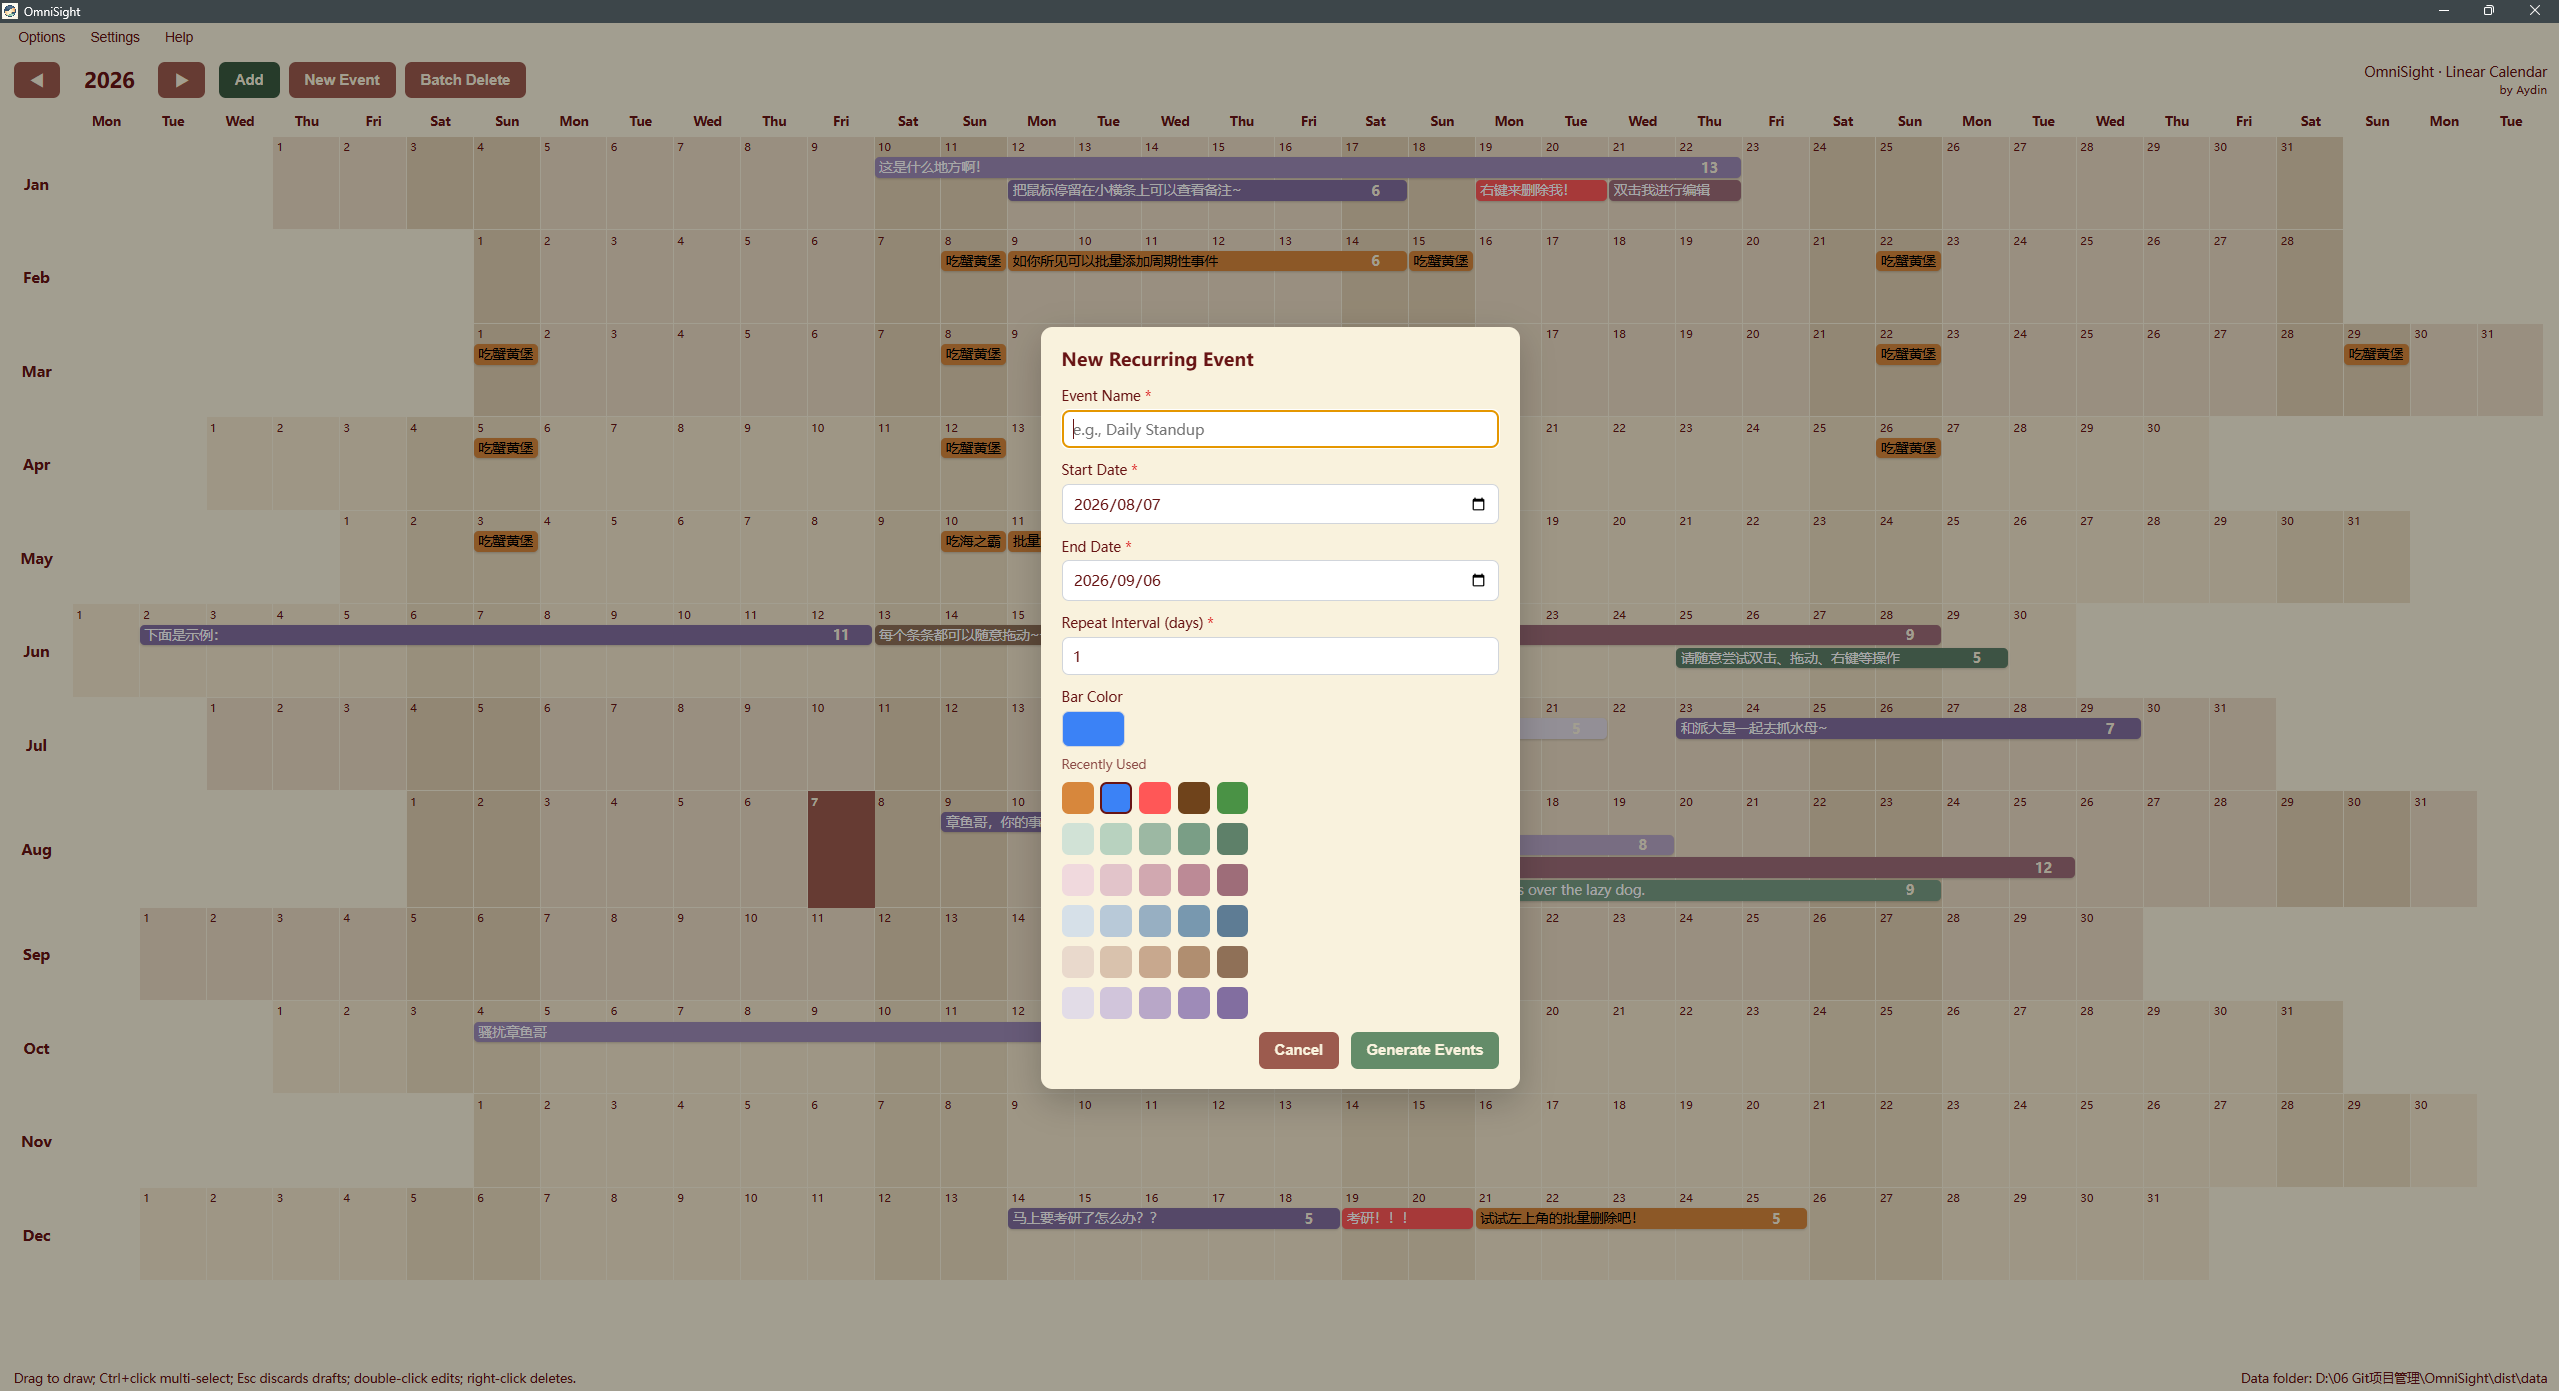
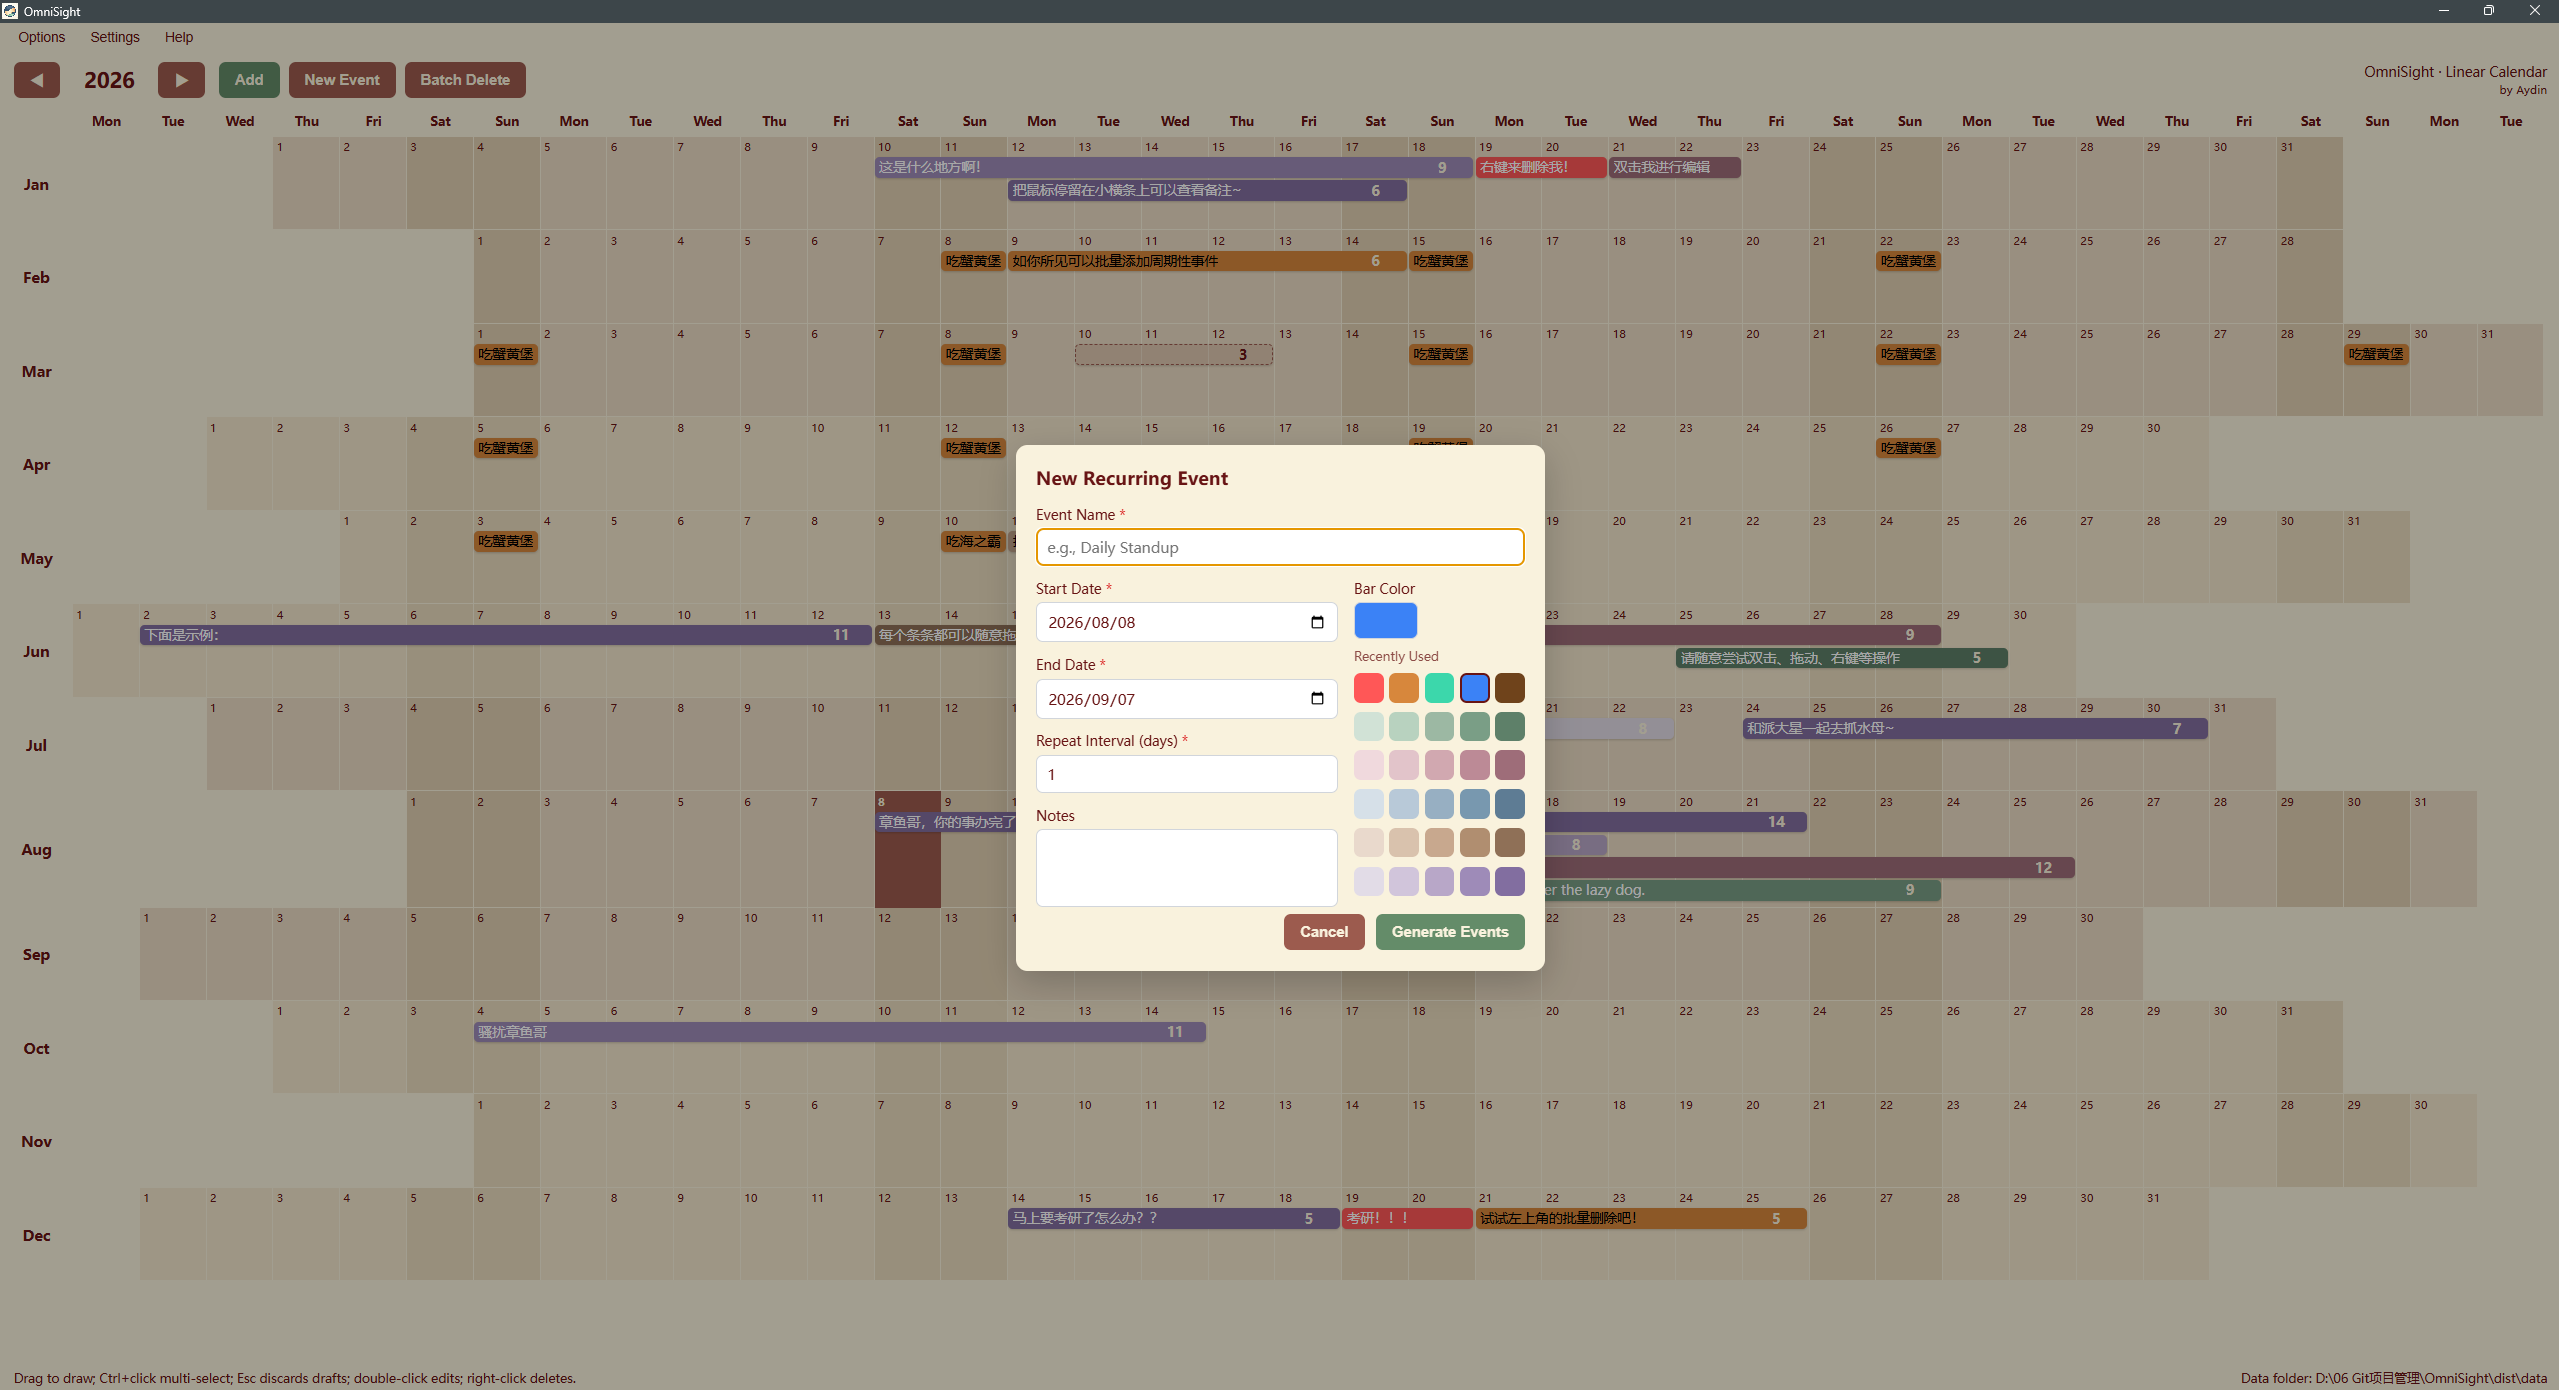
README 更新

diff --git a/README.md b/README.md
@@ -25,7 +25,7 @@
 
 ### 全年总览视图 / Year Overview
 
-![全年总览视图 - Year Overview](docs/screenshots/year-overview.png)
+![全年总览视图 - Year Overview](docs/screenshots/year-overview-en.png)
 
 **中文**：12 个月纵向排列、横向固定 37 列网格；事项以彩色横条覆盖对应日期区间，全年计划一目了然。
 
@@ -41,19 +41,17 @@
 
 **English**: A clean grid of a brand-new year — click any date cell to start planning.
 
-### 添加事项弹窗 / Add-Event Dialog
+### 添加与编辑事项弹窗 / Add-Event & Edit-Event Dialog
 
-![添加事项弹窗 - Add-Event Dialog](docs/screenshots/add-dialog-zh.png)
+![添加事项弹窗 - Add-Event Dialog](docs/screenshots/add-event-en.png)
 
-![添加事项弹窗 - Add-Event Dialog](docs/screenshots/add-dialog-en.png)
+![编辑事项弹窗 - Edit-Event Dialog](docs/screenshots/edit-event-en.png)
 
-**中文**：双击草稿条或点击「添加」弹出表单，填写名称、备注并选择颜色；颜色面板包含「最近使用」与 5 组预设色板。
+**中文**：双击草稿条或点击「添加」弹出表单，填写名称、备注并选择颜色；颜色面板包含「最近使用」与 5 组预设色板。在编辑页面可直接更改事项条长度。
 
-**English**: Double-click a draft bar or press "Add" to open the form — fill in the name, notes, and pick a color; the picker includes recently used colors and 5 preset palettes.
+**English**: Double-click a draft bar or press "Add" to open the form — fill in the name, notes, and pick a color; the picker includes recently used colors and 5 preset palettes.You can directly modify the length of the event bar on the edit page.
 
 ### 新建周期事项弹窗 / Recurring-Event Dialog
-
-![新建周期事项弹窗 - Recurring-Event Dialog](docs/screenshots/recurring-dialog-zh.png)
 
 ![新建周期事项弹窗 - Recurring-Event Dialog](docs/screenshots/recurring-dialog-en.png)
 
@@ -63,31 +61,33 @@
 
 ## 功能特性 / Features
 
-| 功能 / Feature | 说明 / Description |
-| --- | --- |
-| 全年单页视图 | 12 个月纵向排列、固定 37 列网格，垂直滚动，不分页。Full-year single-page view with a fixed 37-column grid. |
-| 年份切换 | 上一年/下一年按钮；数据按年份分文件夹隔离。Year switching with per-year isolated data. |
-| 拖拽绘制草稿 | 单击或拖拽生成虚线草稿条；Ctrl+单击多选；点击空白/Esc 作废；双击草稿条直接弹出添加。Dashed draft bars via click/drag; Ctrl+click multi-select; Esc or click-elsewhere to discard; double-click a draft to add. |
-| 跨天连续横条 | 同月跨格连续、跨月分段延续；一条事项是一个整体对象，可整体编辑/移动/删除。Continuous cross-day/month bars as single objects. |
-| 泳道堆叠 | 同一日期多条事项自动分泳道堆叠，互不遮挡；不重叠事项共享同一泳道。Lane-based stacking without overlap. |
-| 周期批量事项 | 按名称、起止日期、间隔天数批量生成；保留系列关联，可整体编辑/删除。Recurring batch events with series linkage. |
-| 悬浮预览 | 悬停横条显示完整名称、备注与日期。Hover preview shows full name, notes, and dates. |
-| 编辑与删除 | 双击编辑文字/颜色；右键删除单条或整条；拖动整条移动。Double-click to edit; right-click to delete; drag to move. |
-| 批量删除 | 顶部「批量删除」进入多选模式，单击多选横条，完成/取消。Batch-delete mode with multi-select. |
-| 颜色系统 | 自绘光谱面板 + 最近使用 5 色 + 5 组预设色板，在添加/新建/编辑弹窗统一可用。Custom spectrum picker, recent colors, and 5 preset palettes. |
-| 本地存储 | JSON 文件按年份保存，重启不丢失。Local JSON storage per year; data survives restarts. |
+| 功能 / Feature | 说明 / Description                                                                                                                                                                                             |
+| -------------- | -------------------------------------------------------------------------------------------------------------------------------------------------------------------------------------------------------------- |
+| 全年单页视图   | 12 个月纵向排列、固定 37 列网格，垂直滚动，不分页。Full-year single-page view with a fixed 37-column grid.                                                                                                     |
+| 年份切换       | 上一年/下一年按钮；数据按年份分文件夹隔离。Year switching with per-year isolated data.                                                                                                                         |
+| 拖拽绘制草稿   | 单击或拖拽生成虚线草稿条；Ctrl+单击多选；点击空白/Esc 作废；双击草稿条直接弹出添加。Dashed draft bars via click/drag; Ctrl+click multi-select; Esc or click-elsewhere to discard; double-click a draft to add. |
+| 跨天连续横条   | 同月跨格连续、跨月分段延续；一条事项是一个整体对象，可整体编辑/移动/删除。Continuous cross-day/month bars as single objects.                                                                                   |
+| 泳道堆叠       | 同一日期多条事项自动分泳道堆叠，互不遮挡；不重叠事项共享同一泳道。Lane-based stacking without overlap.                                                                                                         |
+| 周期批量事项   | 按名称、起止日期、间隔天数批量生成；保留系列关联，可整体编辑/删除。Recurring batch events with series linkage.                                                                                                 |
+| 悬浮预览       | 悬停横条显示完整名称、备注与日期。Hover preview shows full name, notes, and dates.                                                                                                                             |
+| 编辑与删除     | 双击编辑文字/颜色；右键删除单条或整条；拖动整条移动。Double-click to edit; right-click to delete; drag to move.                                                                                                |
+| 批量删除       | 顶部「批量删除」进入多选模式，单击多选横条，完成/取消。Batch-delete mode with multi-select.                                                                                                                    |
+| 颜色系统       | 自绘光谱面板 + 最近使用 5 色 + 5 组预设色板，在添加/新建/编辑弹窗统一可用。Custom spectrum picker, recent colors, and 5 preset palettes.                                                                       |
+| 本地存储       | JSON 文件按年份保存，重启不丢失。Local JSON storage per year; data survives restarts.                                                                                                                          |
 
 ## 界面与操作 / Usage
 
 ### 顶部工具栏 / Top Bar
 
 **中文**：
+
 - **◀ / ▶**：切换上一年 / 下一年
 - **添加**：把当前虚线草稿正式提交为事项（弹出名称/备注/颜色表单；双击草稿条效果相同）
 - **新建事项**：批量生成周期事项（名称、起始年月日、结束年月日、重复间隔天数）
 - **批量删除**：进入多选模式，此时按钮切换为「完成 / 取消」
 
 **English**:
+
 - **◀ / ▶**: Switch to the previous / next year
 - **添加 (Add)**: Commit the current dashed drafts as real events (opens a name/notes/color form; double-clicking a draft bar does the same)
 - **新建事项 (New Event)**: Generate recurring events in batches (name, start date, end date, repeat interval in days)
@@ -96,12 +96,14 @@
 ### 创建事项 / Creating Events
 
 **中文**：
+
 1. 单击某个有效日期格 → 生成该日的单日虚线草稿条；横向拖拽 → 生成跨天草稿条（可跨月）
 2. 按住 `Ctrl` 多次单击 → 追加多条独立单日草稿
 3. 点击页面空白处或按 `Esc` → 草稿全部作废
 4. 点击「添加」或双击草稿条 → 填写名称、备注、颜色并确认 → 草稿转为实体横条
 
 **English**:
+
 1. Click a valid date cell to create a single-day dashed draft; drag horizontally to create a cross-day draft (months can be crossed)
 2. Hold `Ctrl` and click multiple cells to append several independent single-day drafts
 3. Click blank space or press `Esc` to discard all drafts
@@ -128,12 +130,14 @@
 ## 安装与运行 / Installation & Running
 
 **中文**：
+
 1. 克隆仓库到本地
 2. 确保已安装 Node.js
 3. 运行 `npm install` 安装依赖
 4. `npm start` 启动开发版；`npm run build` 打包便携版 exe（产物在 `dist/`）
 
 **English**:
+
 1. Clone the repository
 2. Make sure Node.js is installed
 3. Run `npm install` to install dependencies
